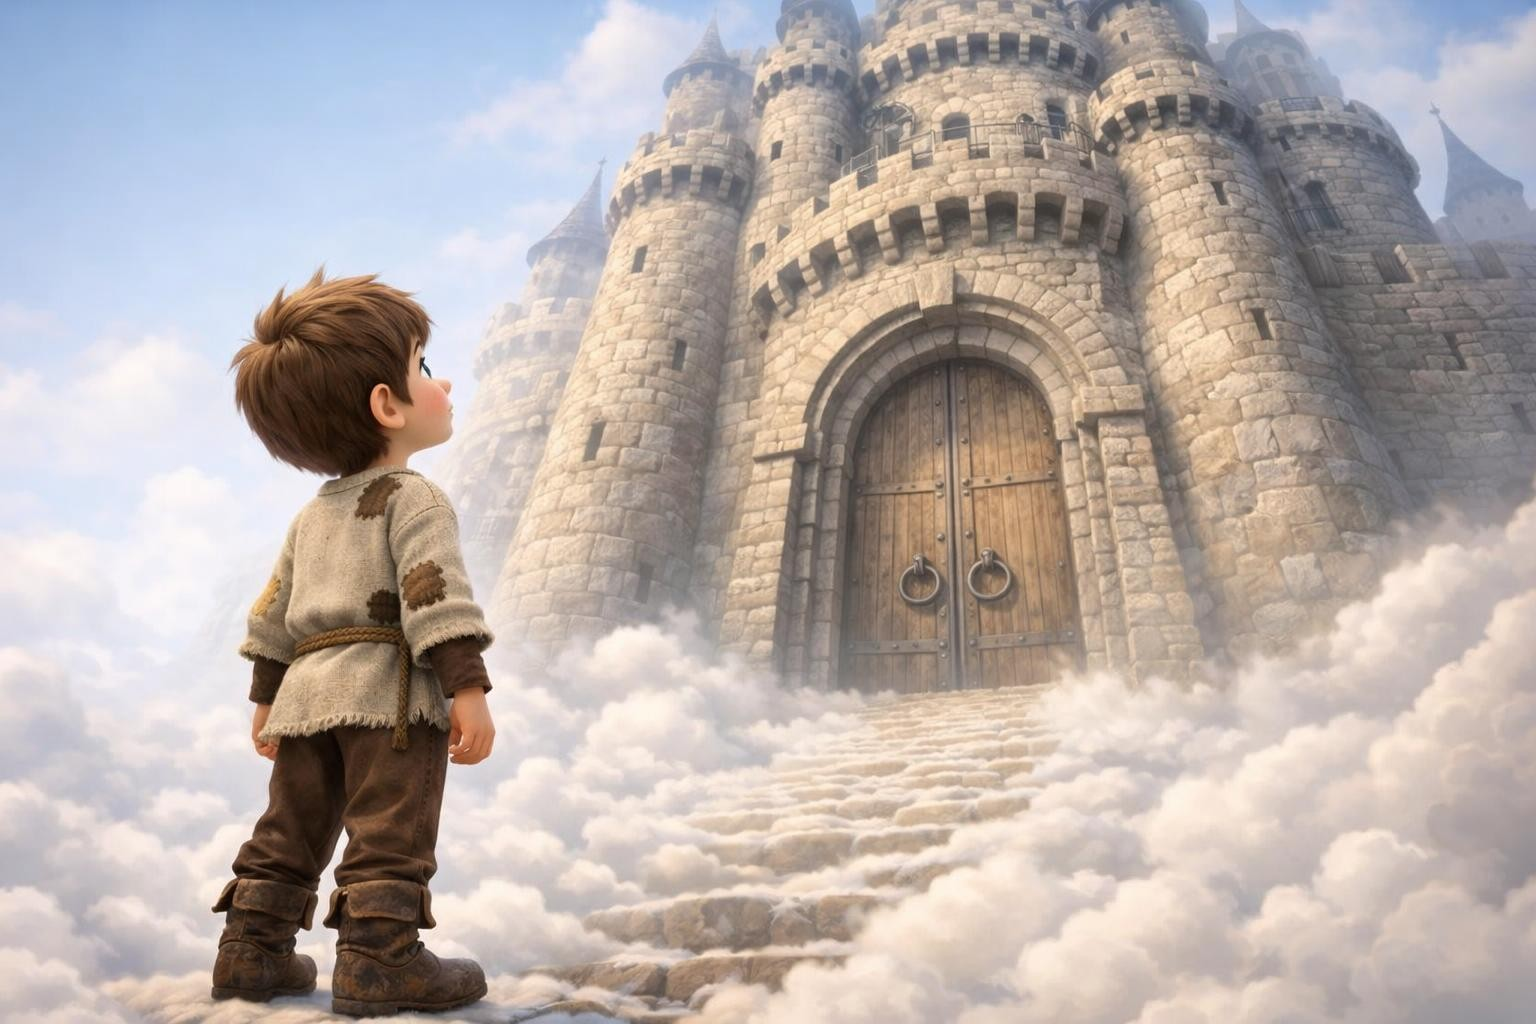
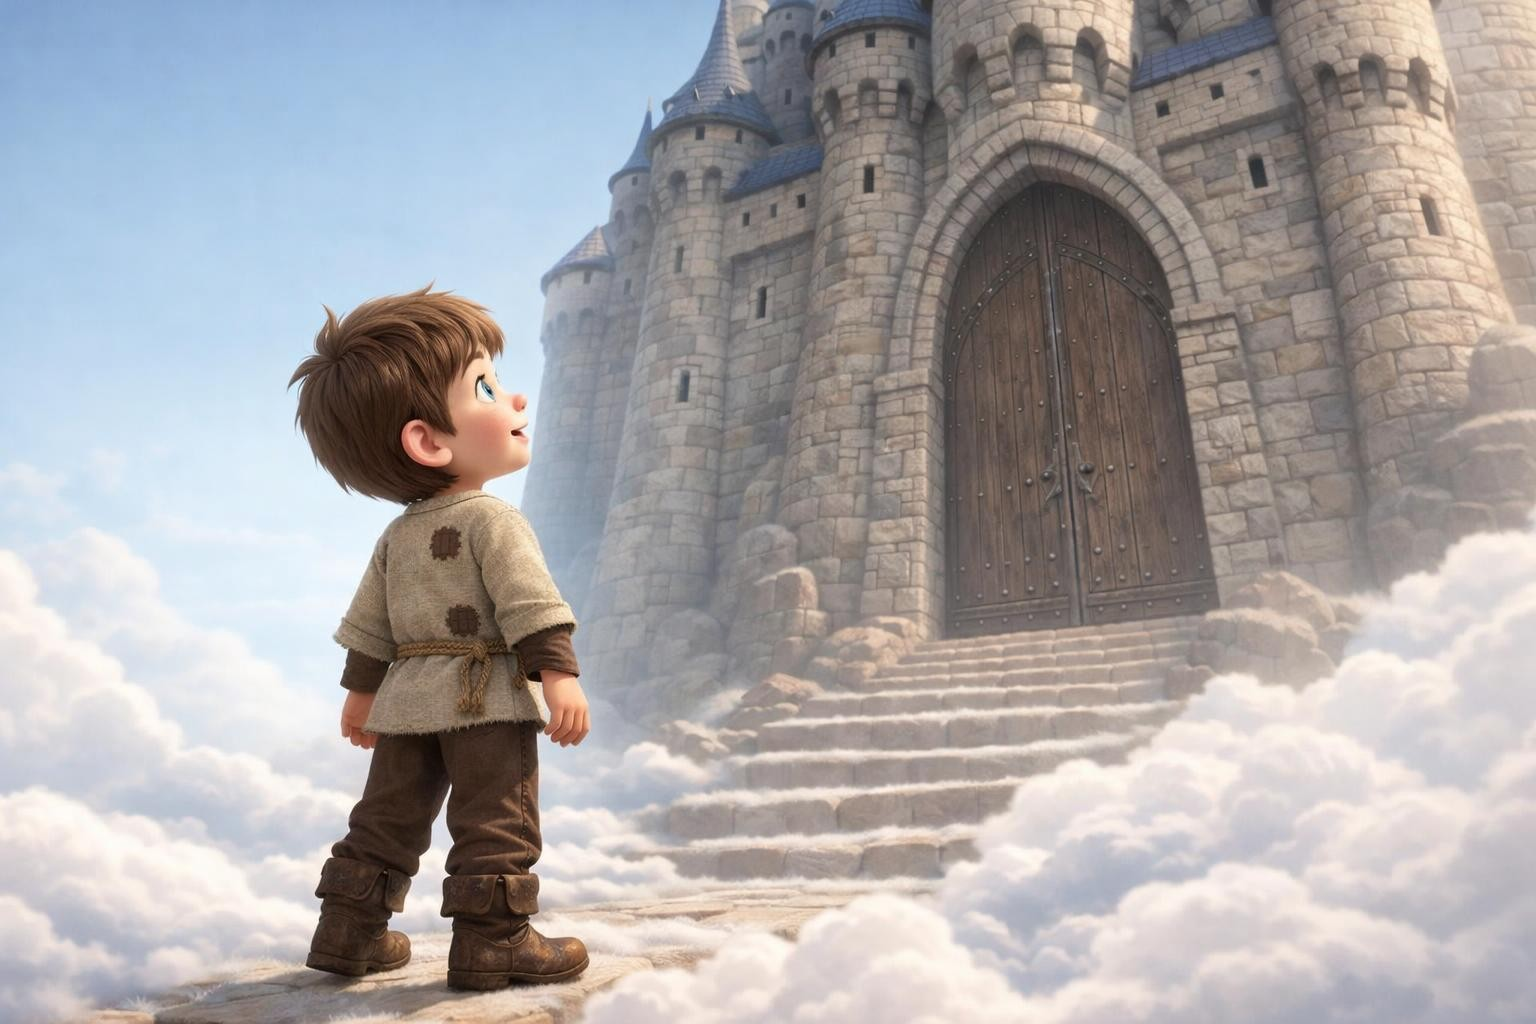
Fair picture check, low-cost image settings, page-first queue, no retries on billing errors

diff --git a/stories.js b/stories.js
@@ -57,7 +57,7 @@ export const STORIES = {
       { text: 'Jack went to bed hungry, and the moon rose over the garden.', cast: [], scene: 'A tiny attic bedroom at night, moonlight through a round window. Jack sits in his small bed hugging his knees, sad but hopeful.' },
       { text: 'In the morning, a giant beanstalk had grown right up into the clouds.', cast: [], scene: 'Dawn in the garden. An enormous twisting green beanstalk rises from the soil up into pink clouds. Jack stands at its base in his nightshirt-free day clothes, mouth open in wonder.' },
       { text: 'Up and up Jack climbed, past the birds and into the clouds.', cast: [], scene: 'Jack climbs the giant beanstalk high above the countryside, small birds flying past, fields far below.' },
-      { text: 'At the very top stood a castle as big as a mountain.', cast: [], scene: 'Jack stands on a path made of clouds, looking up at a gigantic stone castle with huge doors.' },
+      { text: 'At the very top stood a castle as big as a mountain.', cast: [], scene: 'Jack stands on a path made of clouds in front of a gigantic stone castle with huge doors, turned three-quarters toward the viewer so his amazed face is clearly visible as he glances up at it.' },
       { text: 'A giant woman opened the door. "Quick, hide! My husband is coming, and he is grumpy!"', cast: ['giantWife'], scene: "In the castle's enormous doorway the kind giantess bends down toward tiny Jack, finger to her lips." },
       { text: 'Thump! Thump! "Fee-fi-fo-fum!" roared the giant.', cast: ['giant'], scene: "A huge castle kitchen. Jack peeks out from behind a giant copper pot while the comic giant stomps in, sniffing the air." },
       { text: 'The giant counted his gold until he fell fast asleep.', cast: ['giant'], scene: 'The giant snores in a huge chair beside a table piled with gold coins. Jack tiptoes along the edge of the table, wide-eyed.' },
@@ -66,7 +66,7 @@ export const STORIES = {
       { text: 'The hen squawked, and the giant woke up!', cast: ['giant', 'hen'], scene: 'Jack runs across the giant floor holding the squawking hen; behind him the giant jolts awake in his chair.' },
       { text: 'Down the beanstalk Jack raced, with the giant thundering behind.', cast: ['giant', 'hen'], scene: 'Jack slides and scrambles down the beanstalk holding the hen; far above, the giant climbs down after him.' },
       { text: '"Mother, the axe!" Jack chopped and chopped.', cast: ['mother'], scene: 'At the bottom of the beanstalk in the garden, Jack swings a small axe at the thick stalk while his mother runs toward him.' },
-      { text: 'Down came the beanstalk, and the giant was never seen again.', cast: ['mother'], scene: 'The cut beanstalk topples sideways into the distance with a huge crash and a puff of leaves; Jack and his mother watch, safe.' },
+      { text: 'Down came the beanstalk, and the giant was never seen again.', cast: ['mother'], scene: 'Jack and his mother stand in the garden in the foreground, facing the viewer with relieved faces clearly visible, as behind them the cut beanstalk topples into the distance with a huge crash and a puff of leaves.' },
       { text: 'Every morning the hen laid a golden egg, and nobody went hungry again.', cast: ['mother', 'hen'], scene: 'The cottage kitchen, now warm and full of food. The hen sits on the table with a golden egg; Jack and his mother smile.' },
       { text: 'And Jack and his mother lived happily ever after.', cast: ['mother', 'cow', 'hen'], scene: 'The cottage, now cheerful and tidy, at sunset. Jack and his mother wave from the garden; a new white cow and the hen are nearby.' },
     ],
@@ -111,7 +111,7 @@ export const STORIES = {
 const IDENTITY =
   'Identity is the top priority: the face must be recognizably the person in the photo. Preserve face shape and width, ' +
   'eye shape, spacing and color, eyebrows, nose, mouth, ears, hairline, hairstyle, hair length, color and texture, skin tone, ' +
-  'freckles, moles, glasses and hair accessories (headbands, clips, bows) if any. ' +
+  'freckles and moles. Glasses, headbands, clips or bows only if the reference shows them: never add glasses or accessories that are not there. ' +
   'Keep their apparent age and never make them look younger: a child stays a child of the same age with realistic proportions, ' +
   'and an adult is drawn as an adult. Do not beautify or swap features.';
 
@@ -194,23 +194,27 @@ export function editPrompt(story, instruction) {
   ].join('\n\n');
 }
 
-// Vision check of a finished page. refs: [page, character sheet]
+// Vision check of a finished page. refs: [page, reference of the child]
 export function analysisPrompt(story, index, ref = 'photo') {
   const page = story.pages[index];
-  const what = ref === 'photo' ? 'a photo of the child' : 'the character sheet of the child';
+  const what = ref === 'photo' ? 'a real photo of the child' : 'the character sheet of the child';
   const others = page.cast.map((key) => story.cast[key].split(':')[0]).join(', ') || 'nobody else';
-  return `You check one illustrated page of a children's picture book before it is printed. Image 1 is the page. Image 2 is ${what} who plays ${story.hero}.
-The page's words (drawn later, not in the image) are: "${page.text}"
+  return `You check one illustrated page of a children's picture book before it is printed. Image 1 is the page. Image 2 is ${what} who plays ${story.hero} (the hero can be any gender, and the costume is the story's).
+The page's words (printed later, not in the image) are: "${page.text}"
 Scene it should show: ${page.scene}
 Other characters who should appear: ${others}.
 
-Judge strictly and only by what you can see. Return JSON:
+How to judge likeness: the page is a stylized 3D cartoon, so the hero is drawn as a cartoon child with big eyes even if image 2 shows an adult. That is expected. Judge only whether the features that identify the person carried over: hair color, hair length and style, skin tone, face shape, glasses or accessories. 8-10: clearly the same person as a cartoon. 5-7: some identifying features carried over. 0-4: looks like a different person.
+
+Defects are only serious problems a parent would notice: letters or words drawn in the picture, extra or missing arms, legs or fingers, a melted or distorted face, the hero shown twice, the hero missing or facing away, or a named character missing. Small differences from the scene description are not defects; reflect them in scene_match instead.
+
+Return JSON:
 {
-  "hero_visible": true/false,          // ${story.hero} is in the picture with the face visible
-  "likeness": 0-10,                    // how clearly the face matches image 2 (hair, glasses, skin tone, face shape)
-  "scene_match": 0-10,                 // how well the picture shows the scene and words
-  "defects": ["..."],                  // drawn text or letters, extra or missing limbs or fingers, melted faces, duplicate heroes, wrong number of key objects
+  "hero_visible": true/false,
+  "likeness": 0-10,
+  "scene_match": 0-10,
+  "defects": ["..."],
   "important": [{"label": "...", "x": 0-1, "y": 0-1, "w": 0-1, "h": 0-1}]
 }
-"important" lists the bounding box (fractions of image width and height, x/y = top-left corner) of every face, every character's head, and every object the words or scene depend on. Words will be printed on the page, and they must never cover anything in this list.`;
+"important" lists the bounding box (fractions of image width and height, x/y = top-left corner) of every face, every character's head, and every object the words depend on. Words will be printed on the page and must never cover anything in this list.`;
 }

diff --git a/images.js b/images.js
@@ -5,7 +5,10 @@ import sharp from 'sharp';
 import { imageCost, chatCost } from './costs.js';
 
 export const MODEL = process.env.OPENAI_IMAGE_MODEL || 'gpt-image-1.5';
-export const QUALITY = process.env.OPENAI_IMAGE_QUALITY || 'medium';
+// Low quality and low input fidelity: tested side by side, the likeness holds, and a page costs
+// about 2.5 cents and 9 seconds instead of 15 cents and 20 seconds. See PRICING.md.
+export const QUALITY = process.env.OPENAI_IMAGE_QUALITY || 'low';
+const FIDELITY = process.env.OPENAI_INPUT_FIDELITY || 'low';
 export const ANALYSIS_MODEL = process.env.ANALYSIS_MODEL || 'gpt-4.1-mini';
 export const MOCK = process.env.IMAGE_PROVIDER === 'mock';
 const MOCK_FAIL_RATE = Number(process.env.MOCK_FAIL_RATE || 0);
@@ -13,22 +16,23 @@ const MOCK_FAIL_RATE = Number(process.env.MOCK_FAIL_RATE || 0);
 // OpenAI caps image calls per minute by account level (20 a minute at the lowest paid level).
 // Calls wait for a free spot instead of failing with a rate-limit error.
 const PER_MINUTE = Number(process.env.IMAGES_PER_MINUTE || 20);
+// Pages go first; a book's character sheet only takes a spot no page is waiting for.
 const started = [];
-const waiting = [];
+const waiting = { page: [], later: [] };
 
 function release() {
   const now = Date.now();
   while (started.length && now - started[0] >= 60_000) started.shift();
-  while (waiting.length && started.length < PER_MINUTE) {
+  while ((waiting.page.length || waiting.later.length) && started.length < PER_MINUTE) {
     started.push(Date.now());
-    waiting.shift()();
+    (waiting.page.shift() || waiting.later.shift())();
   }
-  if (waiting.length) setTimeout(release, 60_000 - (now - started[0]) + 50);
+  if (waiting.page.length || waiting.later.length) setTimeout(release, 60_000 - (now - started[0]) + 50);
 }
 
-function imageTurn() {
+function imageTurn(priority = 'page') {
   return new Promise((resolve) => {
-    waiting.push(resolve);
+    waiting[priority].push(resolve);
     release();
   });
 }
@@ -50,8 +54,8 @@ export async function generateFromText(prompt, size = '1024x1024') {
 }
 
 // images: [{ mime, data: Buffer }]. Returns { mime, data, cost }.
-export async function generateImage(prompt, images, size = '1536x1024') {
-  await imageTurn();
+export async function generateImage(prompt, images, size = '1536x1024', priority = 'page') {
+  await imageTurn(priority);
   if (MOCK) {
     await sleep(800 + Math.random() * 1500);
     return { ...images[0], cost: 0 };
@@ -63,7 +67,7 @@ export async function generateImage(prompt, images, size = '1536x1024') {
   form.append('quality', QUALITY);
   form.append('output_format', 'jpeg');
   form.append('output_compression', '90');
-  if (MODEL === 'gpt-image-1.5') form.append('input_fidelity', 'high'); // keeps the reference face
+  if (MODEL === 'gpt-image-1.5') form.append('input_fidelity', FIDELITY);
   images.forEach((img, i) => {
     form.append('image[]', new Blob([img.data], { type: img.mime }), `ref${i}.${img.mime.split('/')[1]}`);
   });

diff --git a/pipeline.js b/pipeline.js
@@ -45,7 +45,7 @@ function scoreOf(a) {
   if (!a) return 0;
   return (a.hero_visible ? 3 : 0) + Number(a.likeness || 0) * 0.5 + Number(a.scene_match || 0) * 0.3 - (a.defects?.length || 0) * 1.5;
 }
-const passes = (a) => a && a.hero_visible && a.likeness >= 7 && a.scene_match >= 6 && !(a.defects?.length);
+const passes = (a) => a && a.hero_visible && a.likeness >= 6 && a.scene_match >= 6 && !(a.defects?.length);
 
 async function loadScene(story, index) {
   const { rows } = await query('SELECT mime, data, analysis FROM scenes WHERE story = $1 AND page = $2', [story, index + 1]);
@@ -75,6 +75,8 @@ async function makePage(ctx, index, ref, refKind, firstTry = null) {
         await logCall(ctx, slot, n === 1 && firstTry ? 'image:edit' : 'image:page', MODEL, Date.now() - t0, true, null, image.cost);
       } catch (e) {
         await logCall(ctx, slot, 'image:page', MODEL, Date.now() - t0, false, e.message, 0);
+        // Retrying can't fix a billing or key problem; it can only fail again.
+        if (/credits|quota|billing|api key|safety system/i.test(e.message)) throw e;
         continue;
       }
       await setSlot(ctx.bookId, slot, 'checking', { attempts: n });
@@ -111,7 +113,9 @@ async function makeSheet(ctx, photo) {
   await setSlot(ctx.bookId, 'sheet', 'painting', { attempts: 1, started: true });
   const t0 = Date.now();
   try {
-    const image = await generateImage(heroSheetPrompt(story), [photo]);
+    // The sheet waits behind every page, so it never delays one.
+    await new Promise((resolve) => setTimeout(resolve, 2000));
+    const image = await generateImage(heroSheetPrompt(story), [photo], '1536x1024', 'later');
     await logCall(ctx, 'sheet', 'image:sheet', MODEL, Date.now() - t0, true, null, image.cost);
     await query(
       `INSERT INTO bible (story, key, book_id, description, mime, data) VALUES ($1, 'hero', $2, $3, $4, $5)
